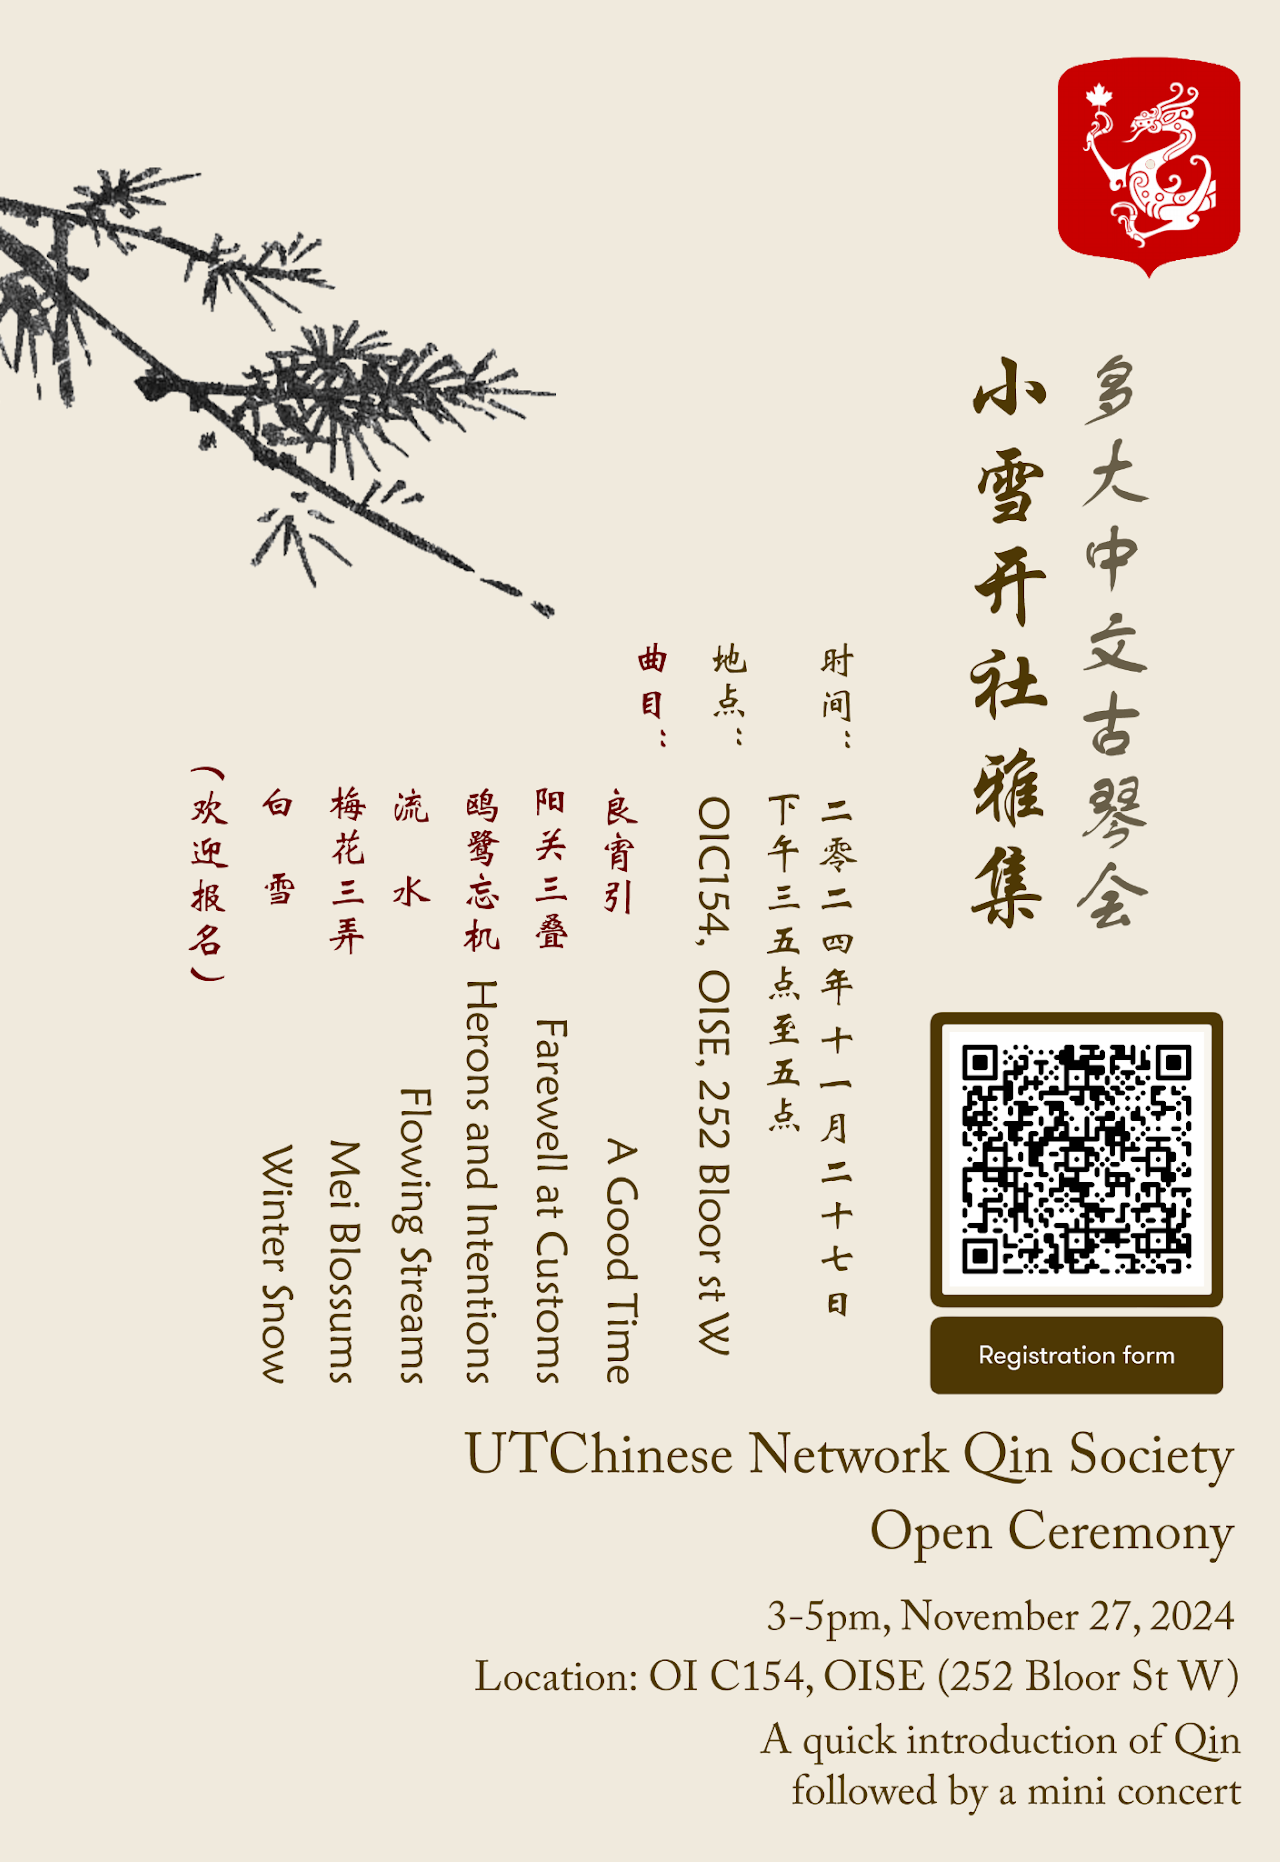
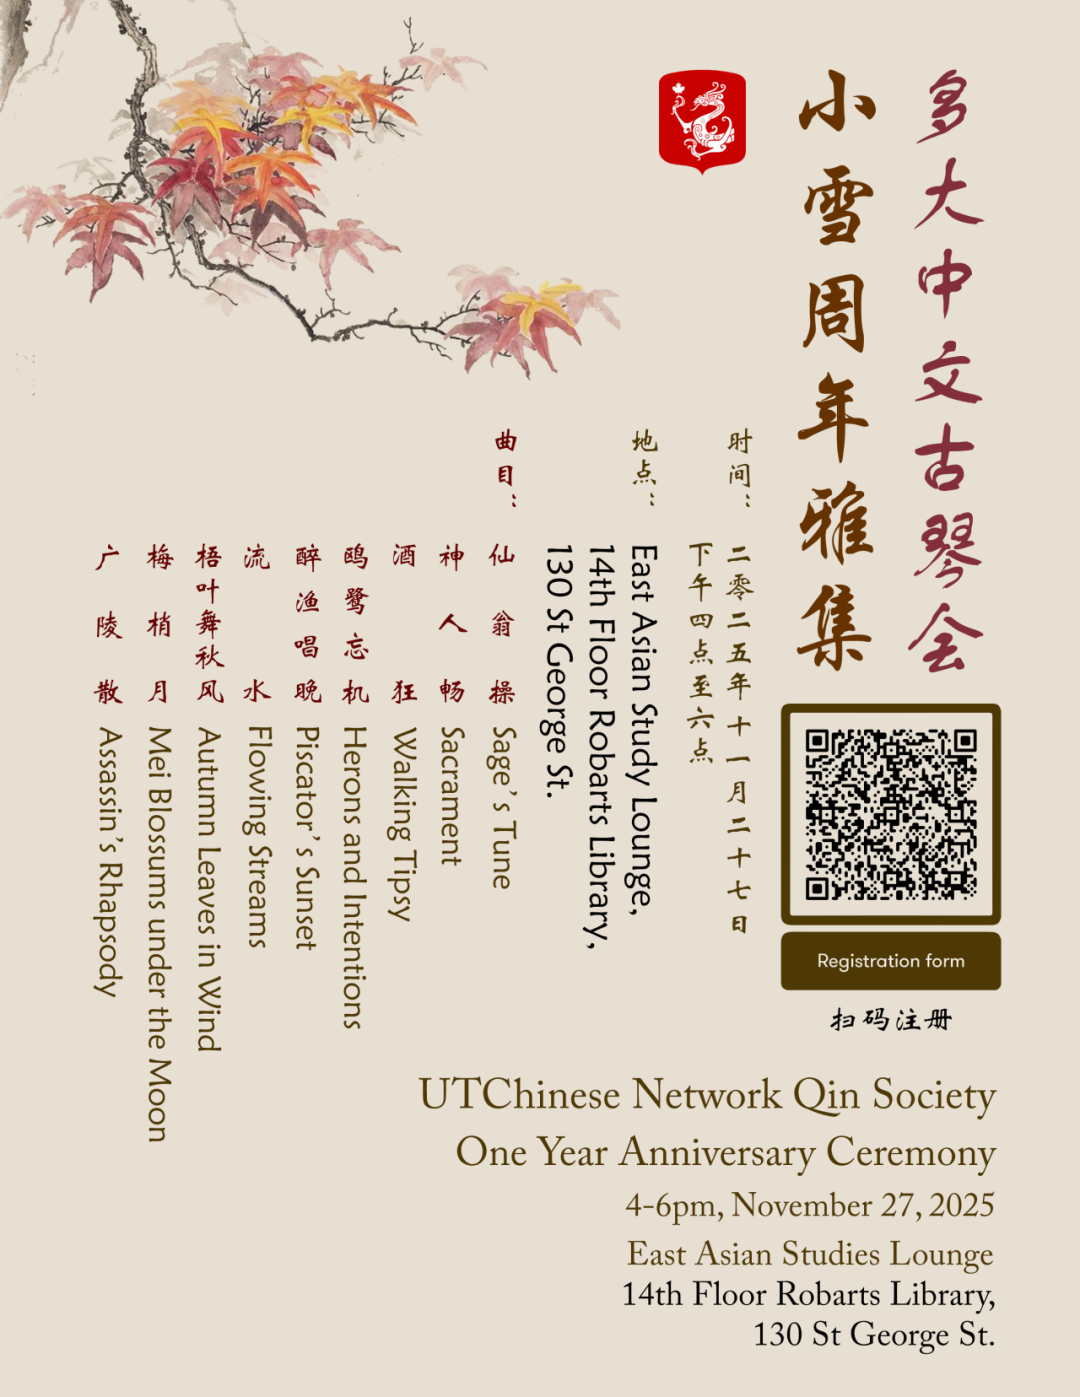
Update event data for Qin Society anniversary gathering

diff --git a/backend/prisma/seed.js b/backend/prisma/seed.js
@@ -154,17 +154,16 @@ async function main() {
         featured: false,
       },
       {
-        title_en: 'UTChinese Network Qin Society Open Ceremony',
-        title_zh: '多大中文琴社开幕典礼',
-        description_en: 'UTChinese Qin Society Open Ceremony Successfully Concluded. First I would like to say "thank you" to everyone who showed up. Our Qin society successfully held its open ceremony elegant gathering on Nov 27, 2024.',
-        description_zh: 'UTChinese琴社开幕典礼圆满结束。首先，我要对所有到场的人表示"感谢"。我们的琴社于2024年11月27日成功举办了开幕典礼雅集。',
+        title_en: 'UTChinese Qin Society Anniversary Gathering',
+        title_zh: '多大中文古琴会周年雅集',
+        description_en: 'One year ago on this day, UTChinese Qin Society was officially established. This year on this day, we cordially invite you to participate in our society\'s anniversary gathering! UofT students and alumni will perform "Xianweng Cao", "Shenren Chang", "Jiu Kuang", "Oulu Wangji", "Wuye Wu Qiufeng", "Meishao Yue", "Zuiyu Changwan", "Liushui", and "Guangling San". Let everyone steal half a day of leisure from their fast-paced study life, listen to an ancient melody, and enjoy a cup of tea. The Guqin is a cultural treasure of our Chinese nation, with more than 3,000 years of history, and is the first of the "four arts" of qin, chess, calligraphy, and painting. Since ancient times, scholars have used the Guqin to honor heaven, earth, people, and spirits, express emotions, cultivate themselves, and nurture their temperament. Understanding and appreciating the Guqin is a continuation of the excellent traditional culture of the Chinese nation.',
+        description_zh: '去年的这一天，多大中文古琴会正式成立。今年的这一天，诚邀诸位参加本社周年雅集！届时，多大在读学生和校友们将演奏《仙翁操》，《神人畅》，《酒狂》，《鸥鹭忘机》，《梧叶舞秋风》，《梅梢月》，《醉渔唱晚》，《流水》和《广陵散》。让大家在快节奏学习生活中，听一首古曲，品一杯茶，偷得浮生半日闲。古琴，是我们中华民族的文化瑰宝，有着三千多年的历史，更为「琴棋书画」四艺之首。自古以来，文人志士以古琴礼天地人鬼，抒发情感，修身养性，陶冶情操。对古琴的理解和欣赏，是对中华民族优秀传统文化的延续。',
         imageUrl: '/uploads/events/QinSocietyOpenCeremony.png',
-        startDate: new Date('2024-11-27'),
-        endDate: new Date('2024-11-27'),
-        location_en: 'Hart House',
-        location_zh: '哈特之家',
+        startDate: new Date('2025-11-27T16:00:00'),
+        endDate: new Date('2025-11-27T18:00:00'),
+        location_en: 'East Asian Study Lounge, 14th Floor, Robarts Library, 130 St George Street',
+        location_zh: '东亚研究休息室，罗巴茨图书馆14楼，圣乔治街130号',
         featured: true,
-        link: 'https://www.youtube.com/watch?v=8HbfgZVLNHM&t=3s'
       },
       {
         title_en: 'Qin Society Summer Outdoor Gathering',
